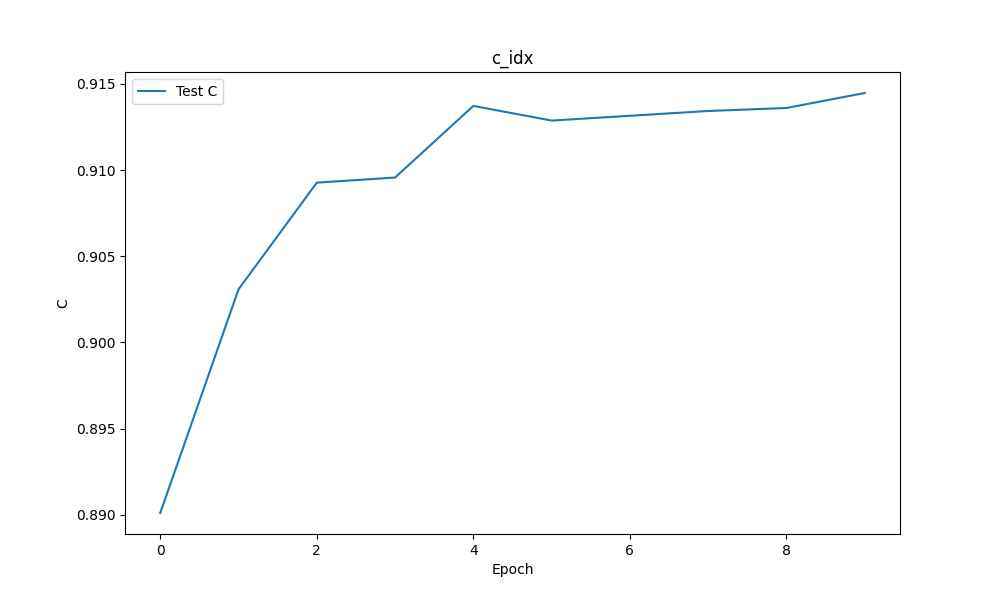
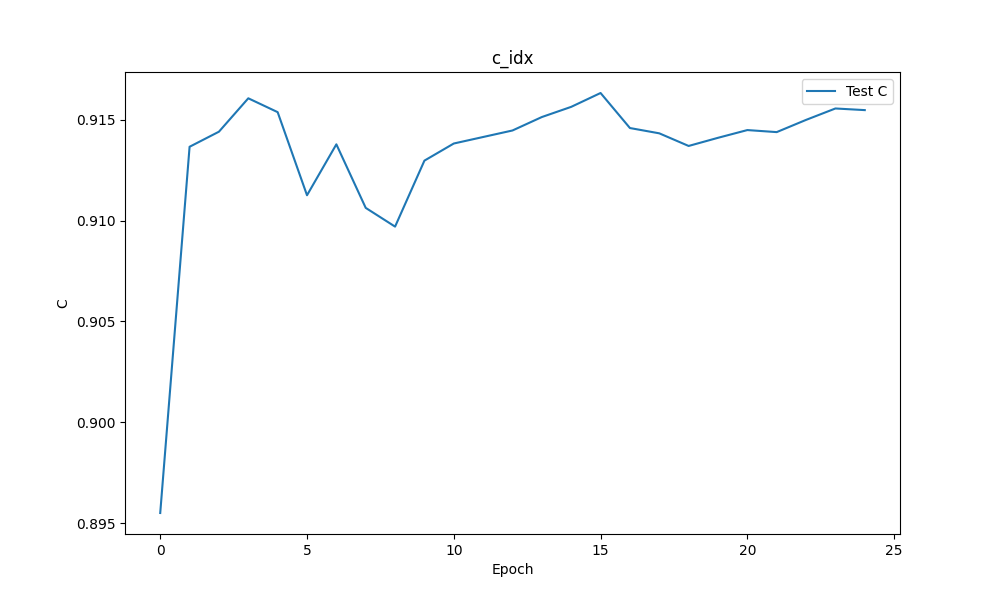
kfolds cross validation

diff --git a/gridsearch.py b/gridsearch.py
@@ -9,6 +9,7 @@ from data import *
 from network import DeepSurv
 from train_test import *
 from utils import update_optim
+import time
 
 # TODO: Loss is not the best metric to evaluate performance
 # Once I figure out what to do about C-index issue change to that
@@ -25,10 +26,8 @@ def execute_trail(config, epochs, train_dataloader, test_dataloader):
      - Best validation score
      - Epoch of best score
     '''
-    # Get number of inputs nodes
-    X, _, _ = next(iter(train_dataloader))
-
-    model = DeepSurv(len(X), 
+    # TODO: Make this not magic
+    model = DeepSurv(12, 
                     n_hidden_layers=config['num_hidden_layers'], 
                     hidden_dim=config['num_hidden_nodes'], 
                     activation_fn=config['activation_fn'], 
@@ -39,7 +38,6 @@ def execute_trail(config, epochs, train_dataloader, test_dataloader):
     lr_decay = config['lr_decay']
 
     device = 'cuda' if torch.cuda.is_available() else 'cpu'
-    print(f'Using {device} device')
     model.to(device)
 
     best_val_loss = 100000000000
@@ -49,7 +47,7 @@ def execute_trail(config, epochs, train_dataloader, test_dataloader):
         test_loss, test_C = test_step(model, test_dataloader, device=device)
 
         # lrs.append(optim.param_groups[0]['lr'])
-        update_optim(optim, epoch, lr_decay)
+        # update_optim(optim, epoch, lr_decay)
 
         if test_loss < best_val_loss:
             best_val_loss = test_loss
@@ -82,35 +80,38 @@ def gridsearch(gridsearch_config, epochs=20):
     experiments = generate_experiment_settings(gridsearch_config)
     results = {}
     for exp_number, experiment_config in enumerate(experiments):
+        print(f"Beginning experiment {exp_number+1}/{len(experiments)}...")
+        start = time.time()
+
         val, best_epoch = execute_trail(experiment_config, epochs, train_dataloader, test_dataloader)
         results[str(exp_number)] = {
             "val": val,
-            "best_epoch": best_epoch
+            "best_epoch": best_epoch,
+            "parameters": experiment_config
         }
 
+        end = time.time()
+
+        print(f'--> val : {val}\n--> time: {end - start}s')
     with open('files\\results.txt', 'w') as f:
         f.write(json.dumps(results))
     
     vals = [x['val'] for x in results.values()]
     best = np.argmin(vals)
 
-    return results[str(best)]
-
-test = {
-    'activation_fn': ['relu', 'selu'],
-    'num_hidden_layers': [1, 2, 3, 4],
-    'num_hidden_nodes': [20, 30, 40, 50],
-    'lr': list(np.linspace(1e-4, 0.05, 8)),
-    'lr_decay': [0, 1e-4, 5e-4, 1e-3]
-}
+    return results[str(best)], len(experiments)
 
 # test = {
 #     'activation_fn': ['relu', 'selu'],
-#     'num_hidden_layers': [1],
-#     'num_hidden_nodes': [20],
-#     'lr': [0.001],
-#     'lr_decay': [1e-4]
+#     'num_hidden_layers': [1, 2, 3, 4],
+#     'num_hidden_nodes': [20, 30, 40, 50],
+#     'lr': list(np.linspace(1e-4, 0.05, 8)),
+#     # 'lr_decay': [0, 1e-4, 5e-4, 1e-3]
+#     'lr_decay': [0]
 # }
 
-experiments = generate_experiment_settings(test)
-print(len(experiments))
+
+# best, trials = gridsearch(test, epochs=20)
+
+# print(f"\n\nThe best performing model after {trials} experiments was:")
+# print(best)

diff --git a/kfold.py b/kfold.py
@@ -1,0 +1,63 @@
+from torch.utils.data import DataLoader
+from gridsearch import execute_trail
+from data import ADNI
+from data import compress_data
+import torch
+import pandas as pd
+
+def get_fold_samples(all_samples, fold_number, num_folds=5):
+    '''
+    Get train/valid split for 
+    '''
+    # Number of valid samples in fold
+    fold_size = int(len(all_samples) * (1 / num_folds))
+
+
+    valid_samples = all_samples.iloc[fold_size*fold_number:fold_size*(fold_number+1)]
+    # train_samples = [x for x in all_samples if x not in valid_samples]
+    train_samples = all_samples[~all_samples.index.isin(valid_samples.index)]
+
+
+    return train_samples, valid_samples
+
+def kfold_validation(all_samples, num_folds=5, epochs=20):
+    '''
+    Args:
+     - all_samples: (pd.DataFrame) All subjects and features
+     - num_folds: (int) number of folders for validation
+     - epochs: (int) number of epochs to train on per fold
+    '''
+    results = []
+    for k in range(num_folds):
+        print(f"Beginning fold: {k}/{num_folds}")
+        train_samples, valid_samples = get_fold_samples(all_samples, fold_number=k, num_folds=num_folds)
+
+        train_dataset = ADNI(train_samples, timeframe=60, c_encode='none', filters=['PTMARRY', 'PTGENDER'], as_tensor=True)
+        test_dataset  = ADNI(valid_samples, timeframe=60, c_encode='none', filters=['PTMARRY', 'PTGENDER'], as_tensor=True)
+        train_dataloader = DataLoader(train_dataset, batch_size=32, shuffle=True)
+        valid_dataloader  = DataLoader(test_dataset, batch_size=32, shuffle=True)
+
+        trial_config = {
+            'activation_fn': 'relu',
+            'num_hidden_layers': 3,
+            'num_hidden_nodes': 20,
+            'lr': 0.014357142857142857,
+            'lr_decay': 0
+        }
+        val, _ = execute_trail(trial_config, epochs, train_dataloader, valid_dataloader)
+
+        results.append(val)
+
+    for i, result, in enumerate(results):
+        print(f"Best loss fold {i}: {result}")
+    
+    avg = sum(results) / len(results)
+    print(f"Average: {avg}")
+
+torch.manual_seed(0)
+
+file = 'D:\\Big_Data\\ADNI\\normalized.csv'
+df = pd.read_csv(file)
+df = compress_data(df)
+# train_samples, test_samples, _ = get_train_test_samples(df, test_size=0.2)
+kfold_validation(df.sample(frac=1), num_folds=5, epochs=20)

diff --git a/main.py b/main.py
@@ -24,16 +24,17 @@ test_cens_data = test_dataset.get_structured_labels()
 train_dataloader = DataLoader(train_dataset, batch_size=32, shuffle=True)
 test_dataloader  = DataLoader(test_dataset, batch_size=32, shuffle=True)
 
-model = DeepSurv(len(train_dataset[0][0]), n_hidden_layers=3, hidden_dim=25, activation_fn='selu', dropout=0.5, do_batchnorm=True)
-optim = Adam(model.parameters(), lr=0.001)
-lr_decay = 0.0005
+model = DeepSurv(len(train_dataset[0][0]), n_hidden_layers=3, hidden_dim=20, activation_fn='relu', dropout=0.5, do_batchnorm=True)
+optim = Adam(model.parameters(), lr=0.014357142857142857, weight_decay=0)
+lr_decay = 0
 do_lr_decay = True
 
 device = 'cuda' if torch.cuda.is_available() else 'cpu'
 print(f'Using {device} device')
 model.to(device)
 
-epochs = 10
+epochs = 25
+best_val_loss = 100000000
 train_losses = []
 test_losses = []
 train_Cs = []
@@ -41,11 +42,15 @@ test_Cs = []
 lrs = []
 for epoch in range(epochs):
     train_loss, train_C = train_step(model, optim, train_dataloader, device=device)
-    test_loss, test_C = test_step(model, test_dataloader, train_cens_data, device=device)
+    test_loss, test_C = test_step(model, test_dataloader, device=device)
 
     if do_lr_decay:
         lrs.append(optim.param_groups[0]['lr'])
         update_optim(optim, epoch, lr_decay)
+
+    if test_loss < best_val_loss:
+        print("Saving model...")
+        torch.save(model, 'files\\model.pt')
 
     train_losses.append(train_loss)
     test_losses.append(test_loss)
